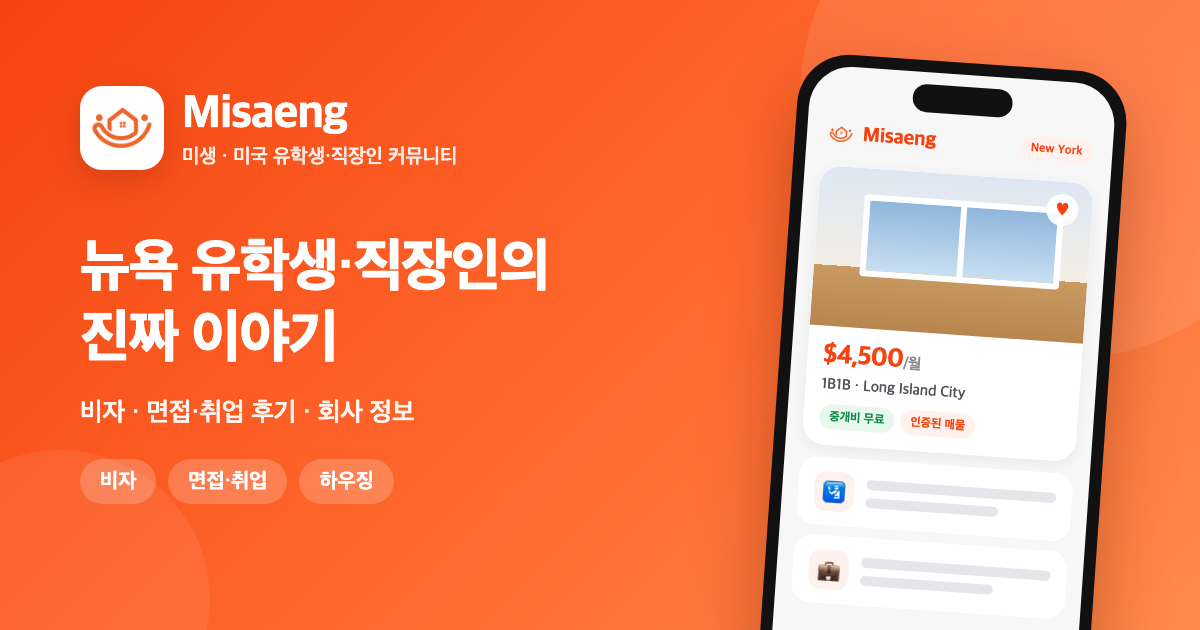
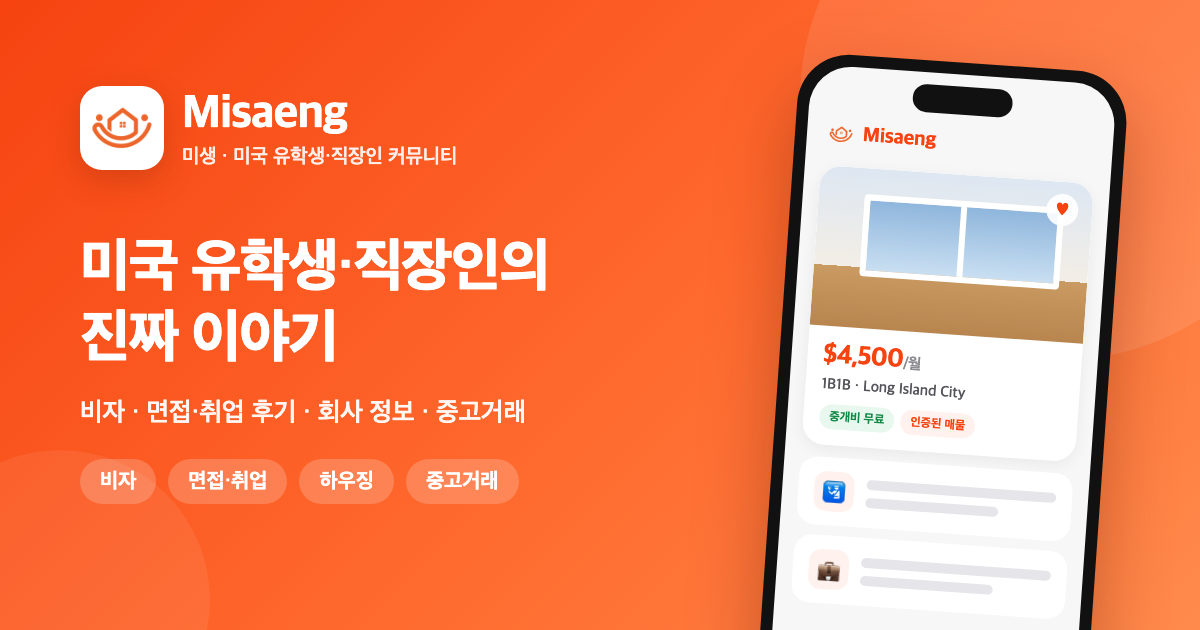
1.0.7 web (not deployed): share preview image says 미국 유학생·직장인 (no New York pill, 중고거래 chip, ?v=2 for KakaoTalk cache); city hub hero lists every board as chips like the app, white fades into the page colour, Korean wraps between words

diff --git a/src/screens/nyc/NycHubScreen.tsx b/src/screens/nyc/NycHubScreen.tsx
@@ -17,6 +17,16 @@ import { PartnerSchoolsMarquee } from '@widgets/nyc/PartnerSchoolsMarquee'
 import { PartnerInfluencersSection } from '@widgets/nyc/PartnerInfluencersSection'
 import { ProfessionalsSection } from '@widgets/nyc/ProfessionalsSection'
 
+/** The boards on the hub, in the app's home order (중고거래 is app-only for now). */
+const HUB_BOARDS = [
+  { path: '/housing', label: 'housing' },
+  { path: '/job-review', label: 'jobReview' },
+  { path: '/status', label: 'status' },
+  { path: '/food', label: 'food' },
+  { path: '/roommate', label: 'roommate' },
+  { path: '/anonymous', label: 'anonymous' },
+] as const
+
 export function NycHubScreen() {
   // Ellieo keeps its own design; this redesign is Misaeng only
   if (BRAND_CONFIG.id !== 'misaeng') return <NycHubScreenClassic />
@@ -28,6 +38,7 @@ function MisaengHubScreen() {
   const href = useCityPath()
   const t = useT('hub')
   const tCommon = useT('common')
+  const tNav = useT('nav')
 
   useEffect(() => {
     captureReferralFromLocation()
@@ -38,8 +49,9 @@ function MisaengHubScreen() {
       {/* phones: point to the app (Misaeng only, hidden for a few days once dismissed) */}
       <AppDownloadPrompt />
 
-      {/* Hero: one strong line, what it is, two ways in */}
-      <section className='relative overflow-hidden bg-white'>
+      {/* Hero: one strong line, what it is, the boards (like the app's home). White fading into the page colour so
+          it runs on into the partner rows below without a hard edge. */}
+      <section className='relative overflow-hidden bg-gradient-to-b from-white via-white to-[var(--canvas)]'>
         <div
           className='pointer-events-none absolute -right-40 -top-40 size-[34rem] rounded-full opacity-70 blur-3xl'
           style={{
@@ -58,38 +70,32 @@ function MisaengHubScreen() {
               <span className='size-1.5 rounded-full bg-[var(--brand)]' aria-hidden />
               {t('brandCity', { brand: BRAND_CONFIG.name, city: cityInfo.shortLabel })}
             </span>
-            <h1 className='mt-4 max-w-3xl text-[2rem] font-bold leading-[1.12] tracking-[-0.035em] text-[var(--foreground)] sm:text-[2.6rem] lg:text-[3rem]'>
+            {/* break-keep: Korean wraps between words, never inside one ("이야 / 기") */}
+            <h1 className='mt-4 max-w-3xl break-keep text-balance text-[2rem] font-bold leading-[1.15] tracking-[-0.035em] text-[var(--foreground)] sm:text-[2.6rem] lg:text-[3rem]'>
               {t(`cities.${cityInfo.id}.headline`)}
             </h1>
-            <p className='mt-3 max-w-xl text-[15px] leading-relaxed text-[var(--muted-foreground)] sm:text-[17px]'>
+            <p className='mt-3 max-w-xl break-keep text-pretty text-[15px] leading-relaxed text-[var(--muted-foreground)] sm:text-[17px]'>
               {t(`cities.${cityInfo.id}.description`)}
             </p>
-            <div className='mt-6 flex flex-wrap items-center gap-2.5'>
-              {/* The boards are in the header; the hero points to the one most people come for */}
-              <Link
-                href={href('/housing')}
-                className='inline-flex h-12 items-center gap-2 rounded-full bg-[var(--foreground)] px-6 text-[15px] font-semibold text-white transition hover:bg-black'
-              >
-                {t('heroCta')}
-                <svg
-                  viewBox='0 0 24 24'
-                  fill='none'
-                  stroke='currentColor'
-                  strokeWidth='2'
-                  className='size-4'
-                  aria-hidden
+            {/* Every board as a chip, in the app's order */}
+            <nav aria-label={tNav('menuAria', { city: cityInfo.shortLabel })} className='mt-6 flex flex-wrap gap-2'>
+              {HUB_BOARDS.map((board) => (
+                <Link
+                  key={board.path}
+                  href={href(board.path)}
+                  className='inline-flex h-11 items-center rounded-full bg-white px-4 text-[15px] font-medium text-[var(--foreground)] ring-1 ring-[var(--card-ring)] transition hover:bg-[#fafbfc] hover:ring-black/15 active:scale-[0.98]'
                 >
-                  <path strokeLinecap='round' strokeLinejoin='round' d='M5 12h14M13 6l6 6-6 6' />
-                </svg>
-              </Link>
-              <AppHandoffButton
-                appPath='home'
-                action='open'
-                variant='plain'
-                className='inline-flex h-12 items-center rounded-full bg-white px-6 text-[15px] font-semibold text-[var(--foreground)] ring-1 ring-black/10 transition hover:bg-[#fafbfc]'
-                label={tCommon('appHandoff.buttons.getApp')}
-              />
-            </div>
+                  {tNav(`links.${board.label}`)}
+                </Link>
+              ))}
+            </nav>
+            <AppHandoffButton
+              appPath='home'
+              action='open'
+              variant='plain'
+              className='mt-5 inline-flex h-11 items-center gap-2 rounded-full bg-[var(--foreground)] px-5 text-[15px] font-semibold text-white transition hover:bg-black'
+              label={tCommon('appHandoff.buttons.getApp')}
+            />
           </div>
           <div className='hidden lg:block'>
             <HeroAppCard />

diff --git a/scripts/og-share.html b/scripts/og-share.html
@@ -84,10 +84,11 @@
     const kind = p.get('kind') || 'housing'
     const copy = {
       housing: { h: '뉴욕에서 찾은 방,<br>미생 앱에서 확인해요', s: '인증된 매물 · 중개비 무료 혜택', c: ['하우징', '룸메이트', '서블렛'] },
-      default: { h: '뉴욕 유학생·직장인의<br>진짜 이야기', s: '비자 · 면접·취업 후기 · 회사 정보', c: ['비자', '면접·취업', '하우징'] },
+      default: { h: '미국 유학생·직장인의<br>진짜 이야기', s: '비자 · 면접·취업 후기 · 회사 정보 · 중고거래', c: ['비자', '면접·취업', '하우징', '중고거래'] },
     }[kind]
     document.getElementById('headline').innerHTML = copy.h
     document.getElementById('sub').textContent = copy.s
+    if (kind !== 'housing') document.querySelector('.appbar .pill').remove()
     document.getElementById('chips').innerHTML = copy.c.map((c) => `<span class="chip">${c}</span>`).join('')
   </script>
 </body>

diff --git a/src/lib/share/shareMetadata.ts b/src/lib/share/shareMetadata.ts
@@ -10,14 +10,17 @@ export const MISAENG_APP_STORE_ID = '6826454902'
 
 export type ShareKind = 'housing' | 'visa' | 'review' | 'company' | 'postings' | 'posting' | 'marketplace'
 
+/** Bumped when an image changes: KakaoTalk and others cache previews by image URL. */
+const DEFAULT_IMAGE = '/og/share-default.png?v=2'
+
 const SHARE_IMAGE: Record<ShareKind, string> = {
   housing: '/og/share-housing.png',
-  visa: '/og/share-default.png',
-  review: '/og/share-default.png',
-  company: '/og/share-default.png',
-  postings: '/og/share-default.png',
-  posting: '/og/share-default.png',
-  marketplace: '/og/share-default.png',
+  visa: DEFAULT_IMAGE,
+  review: DEFAULT_IMAGE,
+  company: DEFAULT_IMAGE,
+  postings: DEFAULT_IMAGE,
+  posting: DEFAULT_IMAGE,
+  marketplace: DEFAULT_IMAGE,
 }
 
 /**
